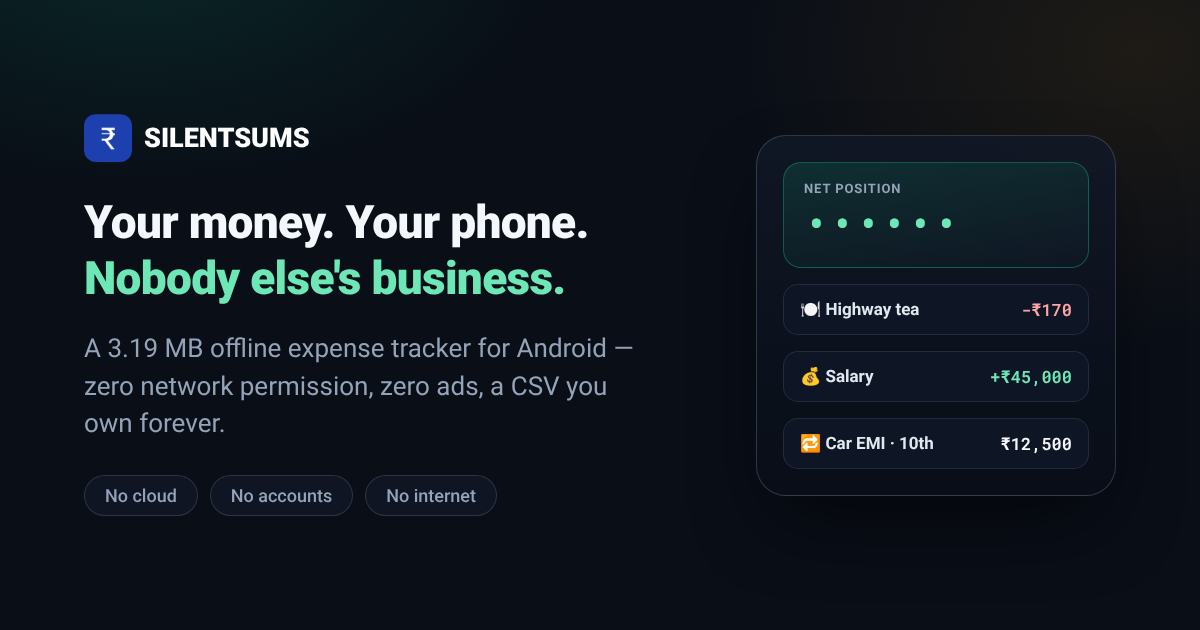
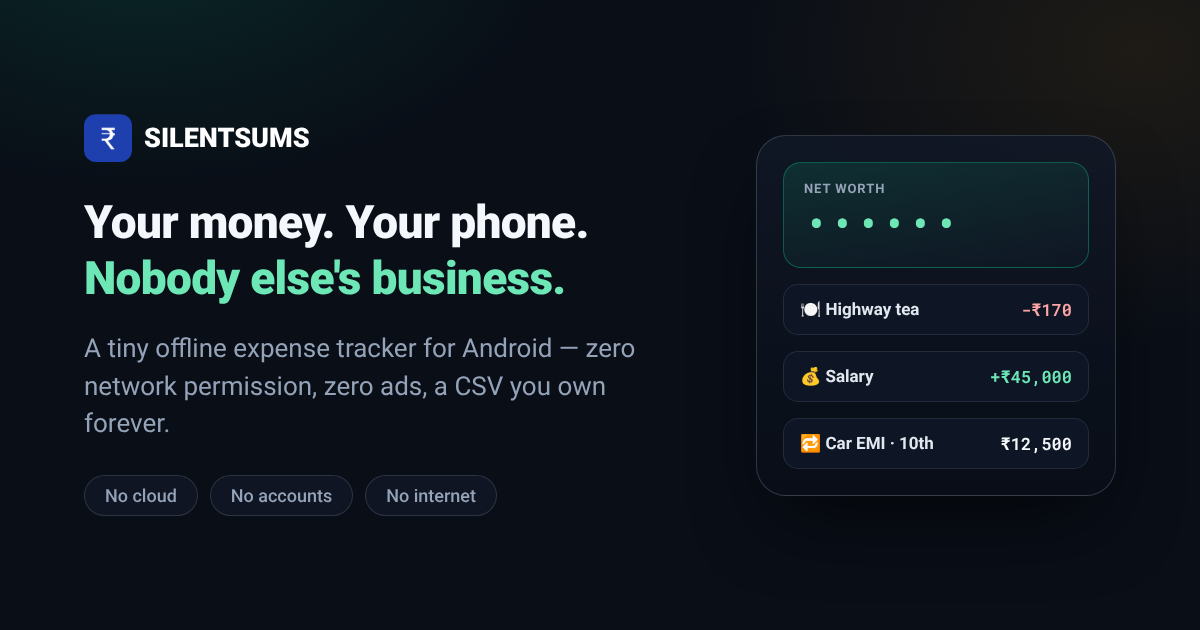
site: correct claims to match the code
- JSON backup: only accounts, categories, custom fields, transactions and a few
  display settings; photos/voice notes are NOT embedded (optional Mirror folder
  copies them). Fixed on index.html and privacy.html.
- Remove 'EMI auto-records itself' (it is recorded when you tap Record & mark paid)
- Dashboard label is 'Net worth incl. card debt'; privacy mask is six dots
- Demo budget chip now follows the app's tiers (green <80%, amber 80-99%, red 100%)
- Mark demo figures as sample data; drop exact APK size and 'opens instantly'
- Privacy page: add the optional media Mirror behavior (off by default)

Claude-Session: https://claude.ai/code/session_01B2X8icKkiJE8JJX4JreqoX

diff --git a/index.html b/index.html
@@ -4,13 +4,13 @@
 <meta charset="UTF-8" />
 <meta name="viewport" content="width=device-width, initial-scale=1.0" />
 <title>SilentSums — 100% Offline Personal Finance for Android</title>
-<meta name="description" content="SilentSums is a 100% offline personal finance app for Android. No account, no cloud, no ads, no analytics — a fast local ledger with CSV you own, forever. 3.19 MB." />
+<meta name="description" content="SilentSums is a 100% offline personal finance app for Android. No account, no cloud, no ads, no analytics — a fast local ledger with CSV you own, forever. Under 4 MB." />
 <meta name="theme-color" content="#090E17" />
 <link rel="canonical" href="https://v-poovarasan-github.github.io/Silent-Sums/" />
 <meta property="og:type" content="website" />
 <meta property="og:site_name" content="SilentSums" />
 <meta property="og:title" content="SilentSums — 100% Offline Personal Finance for Android" />
-<meta property="og:description" content="Your money. Your phone. Nobody else's business. A 3.19 MB offline expense tracker with zero network permission, zero ads, and a CSV you own forever." />
+<meta property="og:description" content="Your money. Your phone. Nobody else's business. A tiny offline expense tracker with zero network permission, zero ads, and a CSV you own forever." />
 <meta property="og:url" content="https://v-poovarasan-github.github.io/Silent-Sums/" />
 <meta property="og:image" content="https://v-poovarasan-github.github.io/Silent-Sums/og-image.png" />
 <meta property="og:image:width" content="1200" />
@@ -18,7 +18,7 @@
 <meta property="og:image:alt" content="SilentSums — offline personal finance. A dark ledger screen with masked balances." />
 <meta name="twitter:card" content="summary_large_image" />
 <meta name="twitter:title" content="SilentSums — 100% Offline Personal Finance for Android" />
-<meta name="twitter:description" content="Your money. Your phone. Nobody else's business. A 3.19 MB offline expense tracker with zero network permission, zero ads, and a CSV you own forever." />
+<meta name="twitter:description" content="Your money. Your phone. Nobody else's business. A tiny offline expense tracker with zero network permission, zero ads, and a CSV you own forever." />
 <meta name="twitter:image" content="https://v-poovarasan-github.github.io/Silent-Sums/og-image.png" />
 <link rel="icon" type="image/png" href="logo.png" />
 <link rel="apple-touch-icon" href="logo.png" />
@@ -369,7 +369,7 @@
         </div>
         <div class="pill-row">
           <span class="pill">Zero network permission</span>
-          <span class="pill">3.19 MB APK</span>
+          <span class="pill">Under 4 MB APK</span>
           <span class="pill">Works in airplane mode</span>
         </div>
       </div>
@@ -382,7 +382,7 @@
               <button type="button" class="eye-btn" id="privacyToggle" aria-pressed="false" aria-label="Toggle privacy mode — masks all amounts">&#128065; Privacy</button>
             </div>
             <div class="net-card">
-              <div class="net-lbl">Net position</div>
+              <div class="net-lbl">Net worth incl. card debt</div>
               <div class="net-val"><span class="amt" data-amt="&#8377;96,850">&#8377;96,850</span></div>
             </div>
             <div class="src-row">
@@ -392,7 +392,7 @@
             </div>
             <div class="budget-chips">
               <span class="bchip ok"><span class="dot"></span>Transport 32%</span>
-              <span class="bchip warn"><span class="dot"></span>Food 68%</span>
+              <span class="bchip warn"><span class="dot"></span>Food 86%</span>
               <span class="bchip over"><span class="dot"></span>Shopping 104%</span>
             </div>
             <div class="tx-list">
@@ -412,7 +412,7 @@
             <div class="due-banner"><span>&#128257; Car EMI due on the 10th</span><span class="amt" data-amt="&#8377;12,500">&#8377;12,500</span></div>
           </div>
         </div>
-        <p class="demo-caption" id="demoCaption">Tap <b>&#128065; Privacy</b> — one tap masks every number, for ledgers opened on the bus.</p>
+        <p class="demo-caption" id="demoCaption">Sample data. Tap <b>&#128065; Privacy</b> — one tap masks every number.</p>
       </div>
     </div>
   </section>
@@ -422,7 +422,7 @@
     <div class="section-head center">
       <p class="eyebrow">What's actually in the box</p>
       <h2>Everything a money app needs. Nothing that phones home.</h2>
-      <p>Built for real life — the &#8377;170 tea on the highway home, the EMI that auto-records itself on the 10th — without a single byte leaving your device.</p>
+      <p>Built for real life — the &#8377;170 tea on the highway home, the car EMI due on the 10th — without a single byte leaving your device.</p>
     </div>
     <div class="bento">
       <div class="card">
@@ -433,27 +433,27 @@
       <div class="card">
         <div class="icon-tile" style="background:rgba(245,158,11,0.15);"><svg viewBox="0 0 24 24" fill="none" stroke="#F59E0B" stroke-width="2"><path d="M12 8v4l3 3"/><circle cx="12" cy="12" r="9"/></svg></div>
         <h3>Dues &amp; recurring engine</h3>
-        <p>Subscriptions, EMIs, loans, IOUs — with due-date reminders, "Record &amp; mark paid" that writes the ledger entry and advances the cycle, and skip-cycle for the month you don't pay.</p>
+        <p>Subscriptions, EMIs, loans, IOUs — with optional due reminders. "Record &amp; mark paid" writes the ledger entry and advances the cycle; skip-cycle covers the month you don't pay.</p>
       </div>
       <div class="card">
         <div class="icon-tile" style="background:rgba(59,130,246,0.15);"><svg viewBox="0 0 24 24" fill="none" stroke="#3B82F6" stroke-width="2"><rect x="2" y="5" width="20" height="14" rx="2"/><path d="M2 10h20"/></svg></div>
         <h3>Multi-source net worth</h3>
-        <p>Cash pockets, bank accounts, and credit-card debt tracked separately — see your true net position at a glance, with budget guardrails that go green, amber, red before the statement arrives.</p>
+        <p>Cash, bank accounts, and credit cards tracked as separate sources, with net worth that includes card debt. Budget limits show green below 80%, amber from 80%, and red at 100%.</p>
       </div>
       <div class="card">
         <div class="icon-tile" style="background:rgba(139,92,246,0.15);"><svg viewBox="0 0 24 24" fill="none" stroke="#8B5CF6" stroke-width="2"><path d="M2 12s3.5-7 10-7 10 7 10 7-3.5 7-10 7-10-7-10-7z"/><circle cx="12" cy="12" r="3"/></svg></div>
         <h3>Privacy mode &amp; app lock</h3>
-        <p>One tap turns every number into <code>••••</code> — no shoulder-surfing on the bus. Behind it: biometric unlock, a salted PBKDF2 PIN, and <code>FLAG_SECURE</code> blocking screenshots of your balances.</p>
+        <p>One tap turns every number into <code>••••••</code> — no shoulder-surfing on the bus. Behind it: optional biometric unlock and a salted PBKDF2 PIN. While privacy mode or app lock is on, <code>FLAG_SECURE</code> blocks screenshots and Recent-Apps previews.</p>
       </div>
       <div class="card">
         <div class="icon-tile" style="background:rgba(236,72,153,0.15);"><svg viewBox="0 0 24 24" fill="none" stroke="#EC4899" stroke-width="2"><path d="M12 19V5M5 12l7-7 7 7"/><rect x="3" y="19" width="18" height="2" rx="1"/></svg></div>
         <h3>Rich attachments</h3>
-        <p>Snap receipt photos and dictate voice memos right on a transaction — both live in a private on-device media vault, and both travel in the full JSON backup when you migrate phones.</p>
+        <p>Attach receipt photos and record voice notes on a transaction. They live in a private on-device media vault — backup files don't carry them, so an optional Mirror setting copies them to a folder you choose, to survive a reinstall or a new phone.</p>
       </div>
       <div class="card">
         <div class="icon-tile" style="background:rgba(0,229,255,0.12);"><svg viewBox="0 0 24 24" fill="none" stroke="#38BDF8" stroke-width="2"><path d="M14 2H6a2 2 0 0 0-2 2v16a2 2 0 0 0 2 2h12a2 2 0 0 0 2-2V8z"/><path d="M14 2v6h6M8 13h8M8 17h5"/></svg></div>
         <h3>CSV &amp; JSON you own</h3>
-        <p>Export your ledger to a human-readable CSV for any spreadsheet, or a full JSON backup including photos and voice notes. Import it back anytime, on any device. No proprietary lock-in.</p>
+        <p>Export your ledger — transactions, accounts, categories, budgets, recurring commitments and custom fields — to a human-readable CSV for any spreadsheet. A JSON snapshot of accounts, categories and transactions is available too. Import either back anytime. No proprietary lock-in.</p>
       </div>
     </div>
   </section>
@@ -471,7 +471,7 @@
         <div class="sec-item"><b>Brute-force lockout</b>From 5 failed attempts, exponential backoff locks the keypad (30s up to 15 min) — tracked across reboots, while biometric unlock stays available.</div>
         <div class="sec-item"><b>Screenshot protection</b><code>FLAG_SECURE</code> is applied whenever the lock screen or Privacy Mode is active — no screenshots, recordings, or Recent-Apps thumbnails of your balances.</div>
         <div class="sec-item"><b>Cloud backup disabled</b><code>allowBackup="false"</code> plus explicit exclusions for every data domain — your ledger is never silently uploaded by Android's backup service.</div>
-        <div class="sec-item"><b>PIN scrubbing on export</b>CSV and JSON backups omit your PIN hash and lockout state, and restores ignore any external PIN fields — a backup file can't carry or overwrite your lock.</div>
+        <div class="sec-item"><b>PIN scrubbing on export</b>Backups never include your PIN hash or lockout state, and restores ignore any PIN or lock fields in a file — a backup can't carry or overwrite your lock.</div>
         <div class="sec-item"><b>Narrow FileProvider scope</b>Only two dedicated cache folders are ever shareable — never the database or root storage.</div>
       </div>
     </div>
@@ -493,8 +493,8 @@
 
   <!-- ============ CTA ============ -->
   <section class="wrap cta-band">
-    <h2>3.19 MB. Zero strings attached.</h2>
-    <p>Free to use and yours to keep — installs in seconds, opens instantly, works in airplane mode.</p>
+    <h2>Tiny download. Zero strings attached.</h2>
+    <p>Free to use and yours to keep — no account, no network permission, works in airplane mode.</p>
     <div style="display:flex;gap:14px;justify-content:center;flex-wrap:wrap;">
       <a class="btn btn-primary" href="https://github.com/V-Poovarasan-Github/Silent-Sums/releases/latest" target="_blank" rel="noopener">Download the APK</a>
       <a class="btn btn-ghost" href="https://github.com/V-Poovarasan-Github/Silent-Sums" target="_blank" rel="noopener">Browse the source</a>
@@ -528,12 +528,12 @@
     hidden = !hidden;
     btn.setAttribute('aria-pressed', hidden ? 'true' : 'false');
     amts.forEach(function(el){
-      el.textContent = hidden ? '••••' : el.getAttribute('data-amt');
+      el.textContent = hidden ? '••••••' : el.getAttribute('data-amt');
     });
     if(caption){
       caption.innerHTML = hidden
-        ? 'Hidden. In the app, TalkBack announces <b>"hidden"</b> too — tap again to reveal.'
-        : 'Tap <b>&#128065; Privacy</b> — one tap masks every number, for ledgers opened on the bus.';
+        ? 'Hidden. In the app, TalkBack announces <b>"hidden"</b> for masked amounts — tap again to reveal.'
+        : 'Sample data. Tap <b>&#128065; Privacy</b> — one tap masks every number.';
     }
   });
 })();

diff --git a/privacy.html b/privacy.html
@@ -153,7 +153,8 @@
     <p>None of your data leaves your device unless you explicitly export or share a file yourself:</p>
     <ul>
       <li><b>CSV backups (<code>.csv</code>):</b> Contain your text-based ledger records (transactions, accounts, categories, budgets, commitments, and custom fields). Receipt photos, voice notes, and your PIN hash are <b>not</b> included in CSV files.</li>
-      <li><b>Full JSON backups (<code>.json</code>):</b> Contain your ledger records plus embedded receipt photos and voice notes for complete device migration. Your PIN hash is <b>not</b> included in JSON backups.</li>
+      <li><b>JSON backups (<code>.json</code>):</b> Contain your accounts, categories, custom fields, transactions, and a few display settings. Receipt photos, voice notes, and your PIN hash are <b>not</b> included in JSON backups.</li>
+      <li><b>Optional media Mirror:</b> Photos and voice notes live only in the app's private storage on your phone. If you turn on the Mirror setting and choose a folder, copies of your attachments are written to that folder so they can survive a reinstall or a new phone. Mirror is off by default and the folder is one you pick.</li>
       <li><b>Crash logs:</b> If the app encounters an unexpected crash, the stack trace is saved locally in private storage. It is never uploaded automatically; you choose whether to inspect or share it via Android's share sheet.</li>
     </ul>
     <p>When you export a backup to a custom folder (via Android's Storage Access Framework or <code>Downloads</code>) or share a file through Android's share sheet, that exported file is governed by your own device storage and whichever app or service you choose to send it to.</p>
